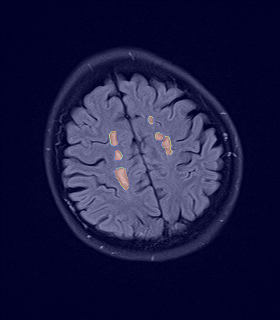
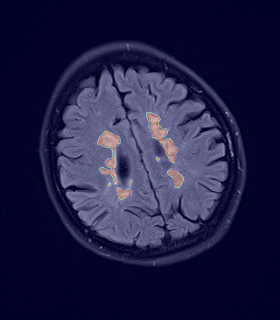
atualização de execução

Changed region(s): [[0.1429, 0.125, 0.8857, 0.8438]]

diff --git a/api.py b/api.py
@@ -1,3 +1,7 @@
+# ativar o .venv: .venv\Scripts\Activate.ps1
+# ativar a API: python -m uvicorn api:app --reload
+
+
 from fastapi import FastAPI, UploadFile, File
 from PIL import Image
 import io

diff --git a/train_unet_pro.py b/train_unet_pro.py
@@ -1,3 +1,5 @@
+# FAZ A MESMA COISA QUE O NOTEBOOK, PREFIRA EXECUTAR ESSE ARQUIVO PARA TREINAR O MODELO DE IA 
+
 import os
 import torch
 import torch.nn as nn

diff --git a/converter_dataset.py b/converter_dataset.py
@@ -1,3 +1,5 @@
+# ARQUIVO USADO PRA TRANSFORMAR DADOS NO FORMATO NIfTI PARA PNG
+
 import os
 import nibabel as nib
 import numpy as np

diff --git a/model.py b/model.py
@@ -1,3 +1,5 @@
+# MODELO DA IA (ESQUELETO)
+
 import torch
 import torch.nn as nn
 
